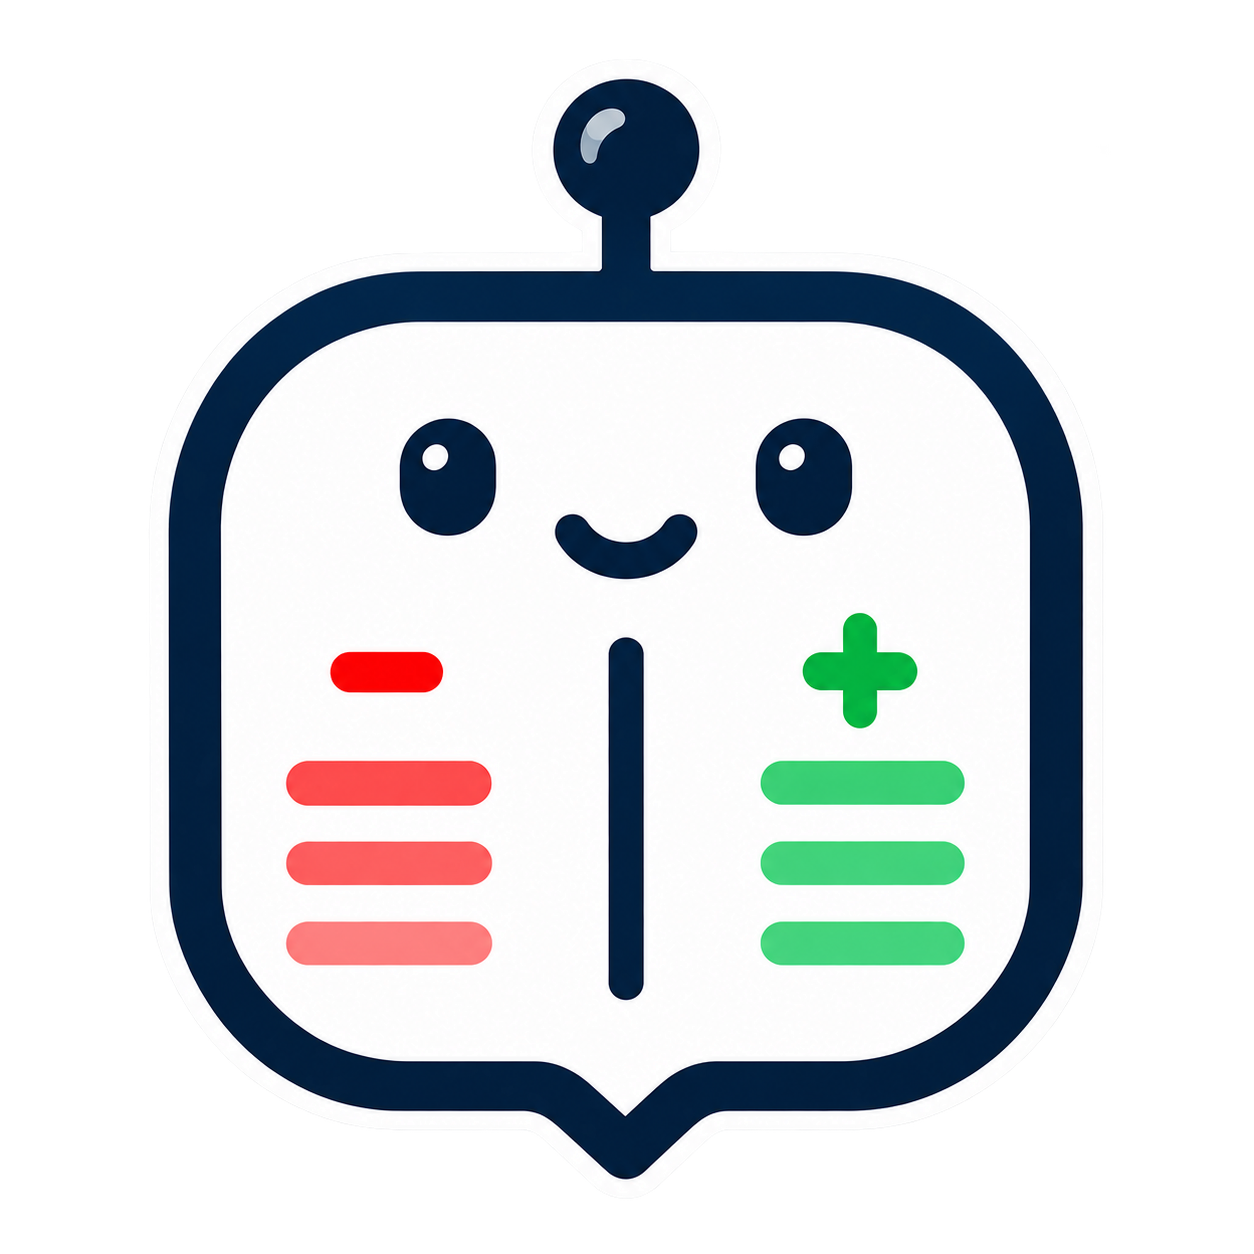
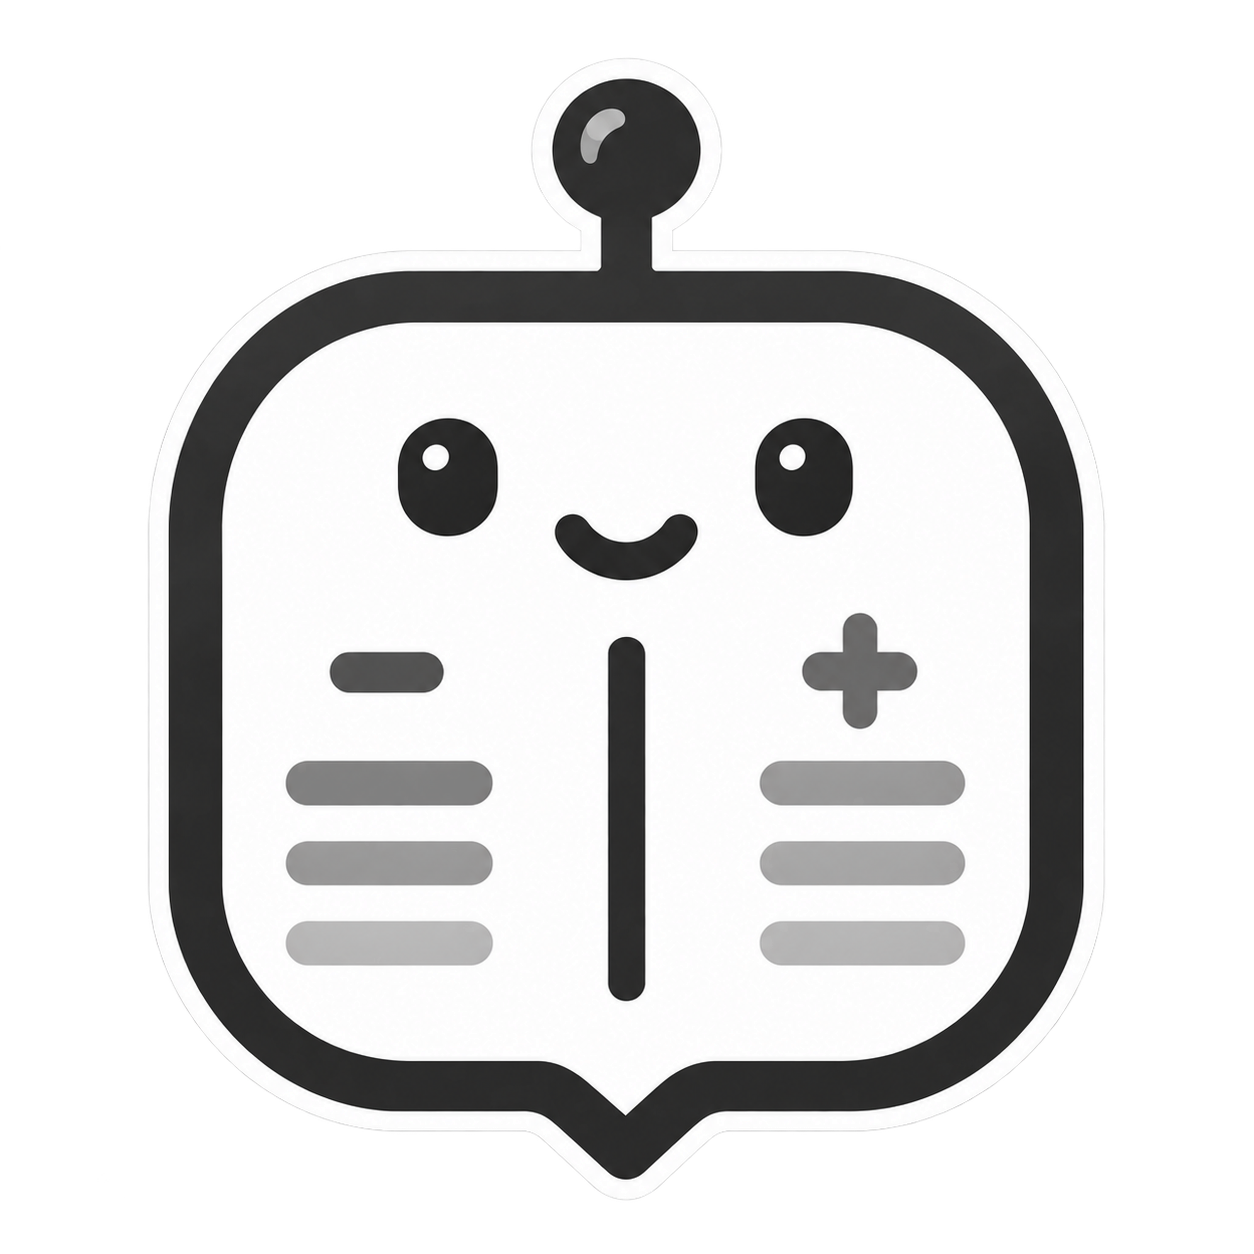
docs: replace mascot with grayscale version (#24)

diff --git a/docs/development/product-hunt-launch.md b/docs/development/product-hunt-launch.md
@@ -109,9 +109,9 @@ guidance](https://help.producthunt.com/en/articles/2690626-how-do-i-share-my-pos
 
 The [LintPal thumbnail](../assets/lintpal-thumbnail.png) uses the existing
 [DiffPal mark](https://github.com/diffpal/diffpal.github.io/blob/main/public/logo-mark.png).
-The thumbnail adds a white sticker outline and transparent background for
-visibility on dark themes, without a text label. The original source mascot
-remains in [diffpal-mark.png](../assets/diffpal-mark.png).
+The thumbnail uses grayscale shading, a white sticker outline and a transparent
+background for visibility on dark themes, without a text label. The original
+source mascot remains in [diffpal-mark.png](../assets/diffpal-mark.png).
 This identifies LintPal as part of the DiffPal family; it does not show product
 output. No gallery images are supplied. The operator set all screenshot and
 browser-use work to NO-GO, so the page gate remains blocked. The thumbnail does

diff --git a/README.md b/README.md
@@ -1,6 +1,6 @@
 # LintPal
 
-<img src="docs/assets/lintpal-thumbnail.png" alt="DiffPal family mascot sticker with a white outline" width="120">
+<img src="docs/assets/lintpal-thumbnail.png" alt="Grayscale DiffPal family mascot sticker with a white outline" width="120">
 
 [![ci](https://github.com/diffpal/lintpal/actions/workflows/ci.yml/badge.svg)](https://github.com/diffpal/lintpal/actions/workflows/ci.yml)
 [![lintpal-dev review](https://github.com/diffpal/lintpal/actions/workflows/lintpal-dev-review.yml/badge.svg)](https://github.com/diffpal/lintpal/actions/workflows/lintpal-dev-review.yml)

diff --git a/docs/index.md b/docs/index.md
@@ -1,6 +1,6 @@
 # lintpal documentation
 
-<img src="assets/lintpal-thumbnail.png" alt="DiffPal family mascot sticker with a white outline" width="96">
+<img src="assets/lintpal-thumbnail.png" alt="Grayscale DiffPal family mascot sticker with a white outline" width="96">
 
 lintpal reviews committed changes from merge base through head, or explicit
 `--uncommitted` working-tree changes. It turns repository Markdown rules into
